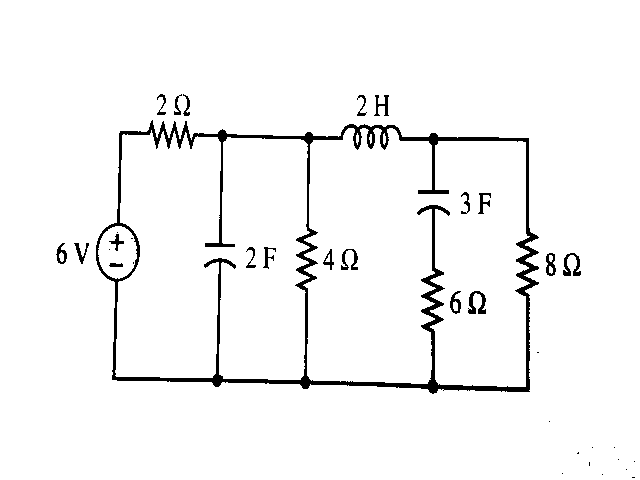
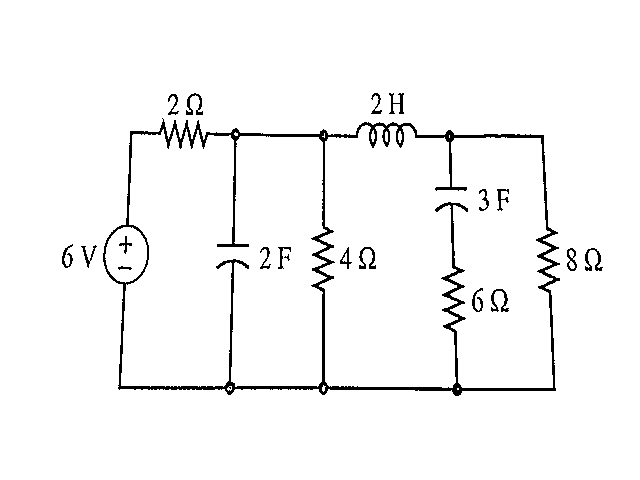
cam

Changed region(s): [[0.0938, 0.1875, 0.9375, 0.8438]]

diff --git a/main.py b/main.py
@@ -17,6 +17,31 @@ import threading
 import time
 import sys
 
+# connect to IP camera
+cap = cv2.VideoCapture("http://10.89.76.82:8080/video")
+
+while True:
+    ret, frame = cap.read()
+    if not ret:
+        break
+
+    # scale the frame
+    frame = cv2.resize(frame, (640, 480))
+
+    # display the frame
+    cv2.imshow("frame", frame)
+    if cv2.waitKey(1) & 0xFF == ord('q'):
+        break
+    if cv2.waitKey(1) & 0xFF == ord('s'):
+        cv2.imwrite("./circuits/frame.png", frame)
+        print("Frame saved")
+        break
+
+    if cv2.waitKey(1) & 0xFF == ord('r'):
+        break
+
+
+
 # Function to print the loading bar
 def loading_bar():
     while True:
@@ -44,13 +69,16 @@ graph = nx.Graph()
 model = YOLO('runs/detect/train2/weights/best.pt')
 
 # opencv image preprocessing
-image = cv2.imread('./circuits/cir7.png')
+image = cv2.imread('./circuits/frame.png')
 # binary filter the image
 gray = cv2.cvtColor(image, cv2.COLOR_BGR2GRAY)
-#_, binary = cv2.threshold(gray, 140, 255, cv2.THRESH_BINARY)
+#_, binary = cv2.threshold(gray, 190, 255, cv2.THRESH_BINARY)
 
-binary = cv2.adaptiveThreshold(gray, 255, cv2.ADAPTIVE_THRESH_GAUSSIAN_C, cv2.THRESH_BINARY, 15, 2)
+binary = cv2.adaptiveThreshold(gray, 255, cv2.ADAPTIVE_THRESH_GAUSSIAN_C, cv2.THRESH_BINARY, 11, 2)
 
+cv2.imshow("binary", binary)
+
+# Invert the binary image
 binary = cv2.bitwise_not(binary)
 
 # Find contours with hierarchy
@@ -62,26 +90,27 @@ for i, contour in enumerate(contours):
     area = cv2.contourArea(contour)
 
     # Remove small contours, whether outer or inner
-    if area < 10:
+    if area < 5:
         cv2.drawContours(binary, [contour], -1, 0, -1)
     # Check if it's an inner contour and remove it if it's below a threshold
-    elif hierarchy[0][i][3] != -1 and area < 20:  # Adjust this inner contour threshold as needed
+    elif hierarchy[0][i][3] != -1 and area < 5:  # Adjust this inner contour threshold as needed
         cv2.drawContours(binary, [contour], -1, 0, -1)
 
-blurred = cv2.GaussianBlur(binary, (1, 1), 0)
 # Invert the binary image back to the original state
-binary = cv2.bitwise_not(blurred)
+binary = cv2.bitwise_not(binary)
 
 # convert to grayscale and blur
 #gray = cv2.cvtColor(binary, cv2.COLOR_BGR2GRAY)
 
+cv2.imshow("filtered", binary)
+cv2.waitKey(0)
+cv2.destroyAllWindows()
 
-
-cv2.imwrite("./circuits/binary_frame.png", binary)
+cv2.imwrite("./binary_frame.png", binary)
 
 
 # Load the image
-image_path = "./circuits/binary_frame.png"  # specify file location 
+image_path = "./binary_frame.png"  # specify file location 
 use_api = True
 
 image = Image.open(image_path).convert("RGB")
@@ -95,7 +124,7 @@ reader = easyocr.Reader(['en'])
 component_bounding_boxes = torch.empty((0, 4))
 components = []
 
-apiresults = CLIENT.infer("circuits/cir7.png", model_id="circuit-recognition/2")
+apiresults = CLIENT.infer(image_path, model_id="circuit-recognition/2")
 class_dict = {0: 'V', 1: 'arr', 2: 'V', 3: 'i', 4: 'L', 5: 'l-', 6: 'R', 7: 'C'}
 
 if use_api:

diff --git a/stream_over_IP.py b/stream_over_IP.py
@@ -15,6 +15,6 @@ while True:
     cv2.imshow("frame", frame)
     if cv2.waitKey(1) & 0xFF == ord('q'):
         break
-    if cv2.waitKey(1) & (0xFF == ord('s') or 0xFF == ord(' ')):
+    if cv2.waitKey(1) & 0xFF == ord('s'):
         cv2.imwrite("./circuits/frame.png", frame)
         print("Frame saved")
